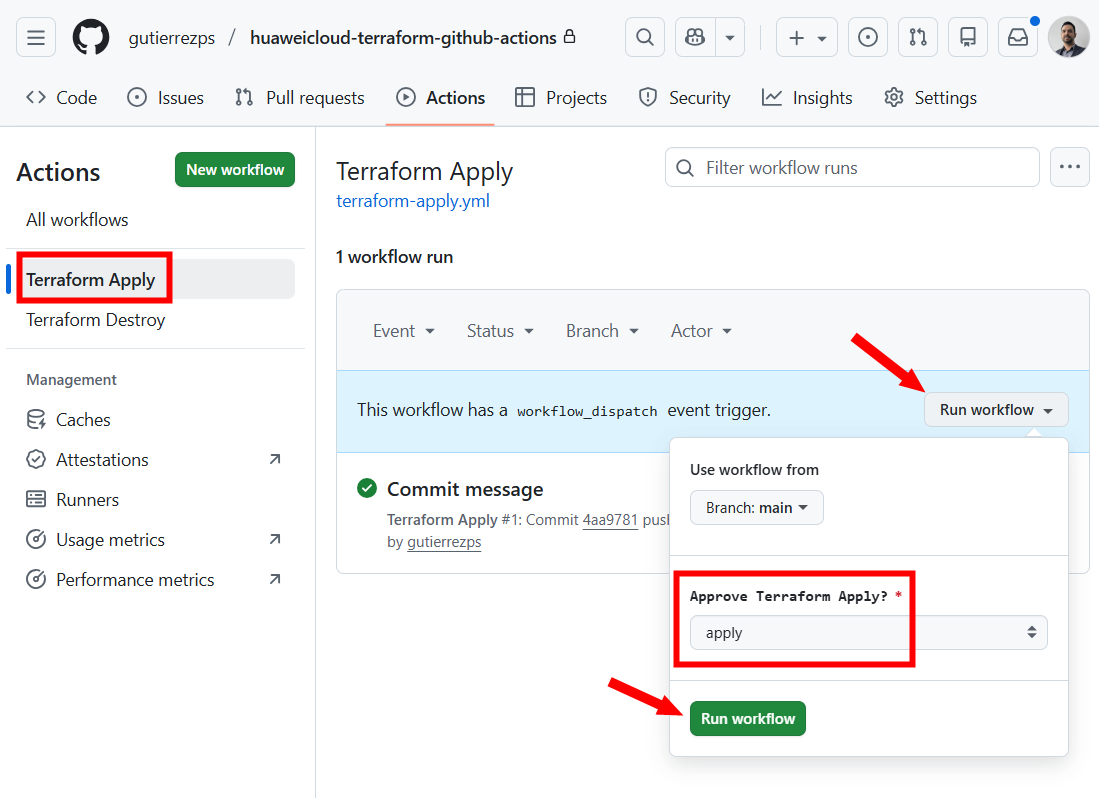
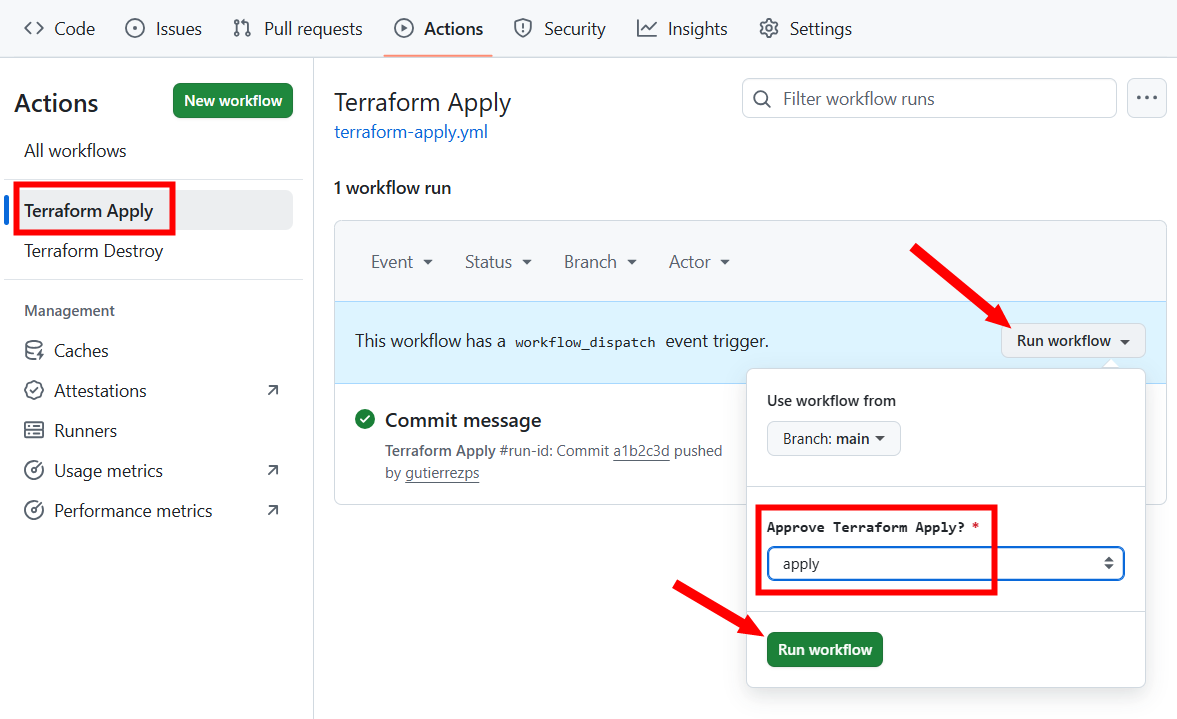
Update screenshots; add reference links to README

diff --git a/README.md b/README.md
@@ -1,15 +1,29 @@
 # Huawei Cloud Terraform with GitHub Actions
 
-This repository contains Terraform files to deploy a minimal Huawei Cloud
-infrastructure (one VPC) using GitHub Actions.
+<!-- markdownlint-disable MD033 -->
+<a href="https://www.huaweicloud.com/intl/en-us" target="_blank">
+  <img src="https://console-static.huaweicloud.com/static/authui/20210202115135/public/custom/images/logo-en.svg"
+    alt="Huawei Cloud" width="450px" height="102px">
+</a>
+
+This repository contains [Terraform][terraform] files to deploy a minimal
+[Huawei Cloud][hwc] infrastructure (one [VPC][vpc]) using
+[GitHub Actions][actions].
+
+- [Huawei Cloud Terraform with GitHub Actions](#huawei-cloud-terraform-with-github-actions)
+  - [Prerequisites](#prerequisites)
+  - [Configure GitHub secrets and variables](#configure-github-secrets-and-variables)
+  - [Deployment flow](#deployment-flow)
+  - [Destroying the infrastructure](#destroying-the-infrastructure)
+  - [Further reading](#further-reading)
 
 ## Prerequisites
 
-- Huawei Cloud Account
-- AK/SK of an IAM User with programmatic access and permission to deploy the
-  resources you use
-- Huawei Cloud OBS bucket to store the remote state file (the IAM user must
-  have read-write permission to the bucket)
+- [Huawei Cloud account][hwc-account];
+- [Access Keys (AK/SK)][aksk] of an [IAM User with programmatic access][iam-prog]
+  and permission to deploy the resources you use;
+- [Huawei Cloud OBS][obs] bucket to store the state file remotely (the IAM user
+  must have [read-write permissions to the bucket][bucket-policy]).
 
 ## Configure GitHub secrets and variables
 
@@ -33,10 +47,10 @@ In your GitHub repository:
 
 Whenever code is pushed to the `main` branch, GitHub Actions will:
 
-1. Initialize Terraform
-2. Check code formatting
-3. Validate configuration
-4. Generate a plan
+1. Initialize Terraform (`terraform init`)
+2. Check code formatting (`terraform fmt -check`)
+3. Validate configuration (`terraform validate`)
+4. Generate a plan (`terraform plan`)
 
 ![Terraform plan generated after code is pushed to the main branch](./img/terraform-plan.png)
 
@@ -46,16 +60,36 @@ workflow in order to provision the infrastructure in Huawei Cloud:
 1. Go to **Actions** tab;
 2. Select **Terraform Huawei Cloud** action;
 3. Click on **Run workflow** on the right side;
-4. Under **Approve Terraform Apply?**, select **apply** and click **Run workflow**;
+4. Under **Approve Terraform Apply?**, select **apply** and click
+   **Run workflow**;
 5. Infrastructure changes will be applied automatically.
 
 ![Running Worflow manually in Actions tab](./img/run-workflow.png)
 
 ![Infrastructure changes being applied automatically by GitHub Actions](./img/terraform-apply.png)
 
-## Destroy infrastructure
+## Destroying the infrastructure
 
 If you wish to destroy the infrastructure through GitHub Actions, manually run
 the **Terraform Destroy (Huawei Cloud)** workflow. Select the **skip** option
 when running the workflow to preview what will be done, and then if you agree
-with the plan, select the **apply** option when running the workflow again.
+with the plan, select the **apply** option when manually running the workflow
+again.
+
+![Infrastructure destroyed automatically by GitHub Actions](./img/terraform-destroy.png)
+
+## Further reading
+
+- Huawei Cloud Terraform Boilerplate: <https://github.com/huaweicloud-latam/terraform-boilerplate>
+- Huawei Cloud Terraform provider documentation: <https://registry.terraform.io/providers/huaweicloud/huaweicloud/latest/docs>
+- Remote state configuration: <https://github.com/huaweicloud-latam/terraform-boilerplate/blob/main/doc/remote_state.md>
+
+[terraform]: <https://developer.hashicorp.com/terraform/docs>
+[hwc]: <https://www.huaweicloud.com/intl/en-us>
+[actions]: <https://docs.github.com/en/actions>
+[hwc-account]: <https://support.huaweicloud.com/intl/en-us/usermanual-account/account_id_001.html>
+[aksk]: <https://support.huaweicloud.com/intl/en-us/usermanual-ca/ca_05_0003.html>
+[iam-prog]: <https://support.huaweicloud.com/intl/en-us/usermanual-iam5/iam_01_1150.html>
+[obs]: <https://support.huaweicloud.com/intl/en-us/obs/index.html>
+[bucket-policy]: <https://support.huaweicloud.com/intl/en-us/usermanual-obs/obs_03_0142.html>
+[vpc]: <https://support.huaweicloud.com/intl/en-us/vpc/index.html>
